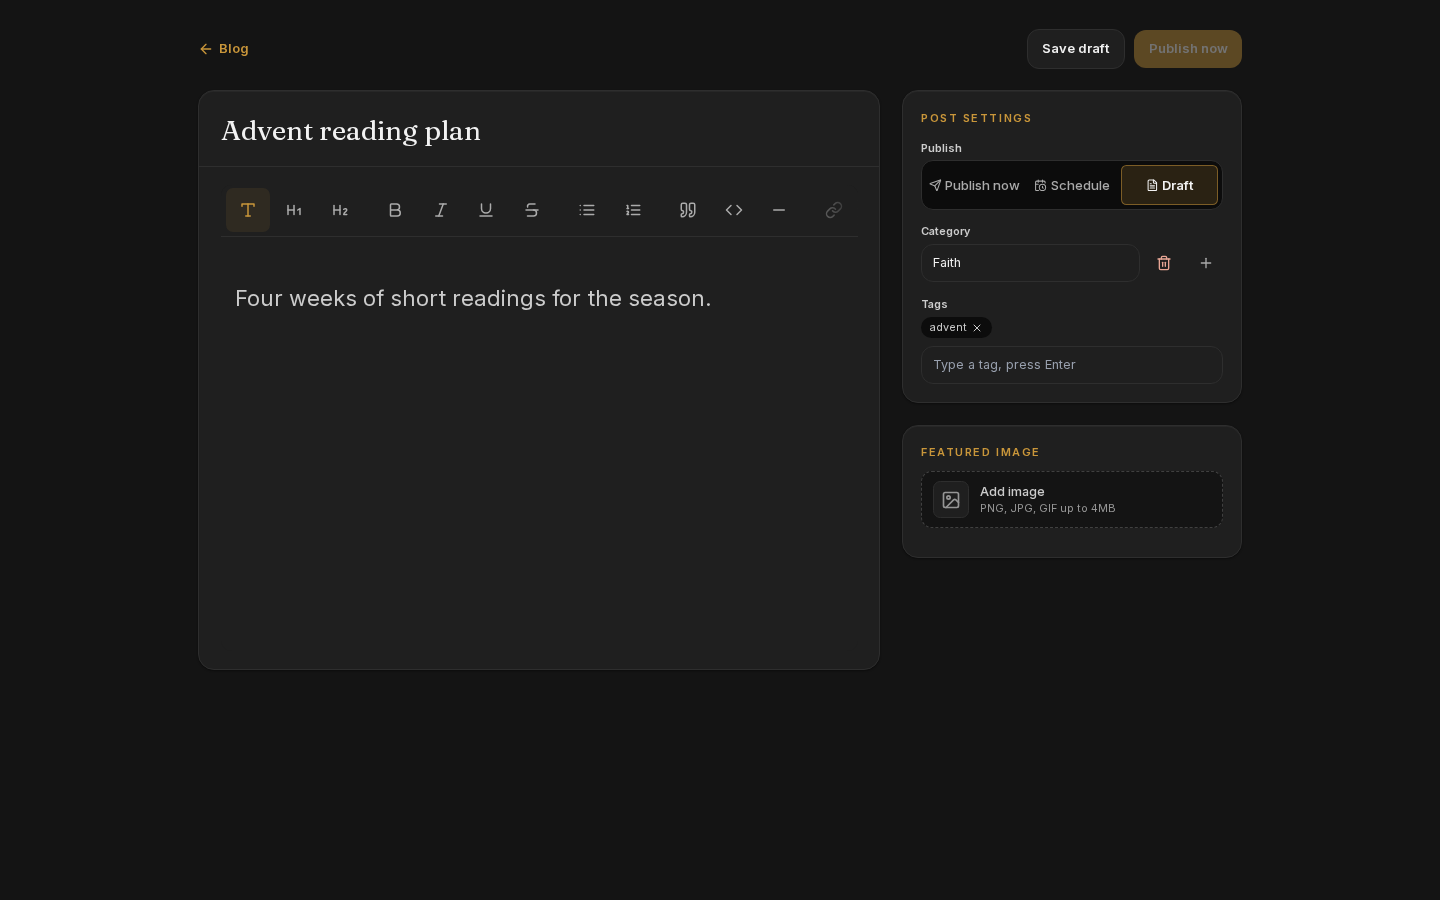
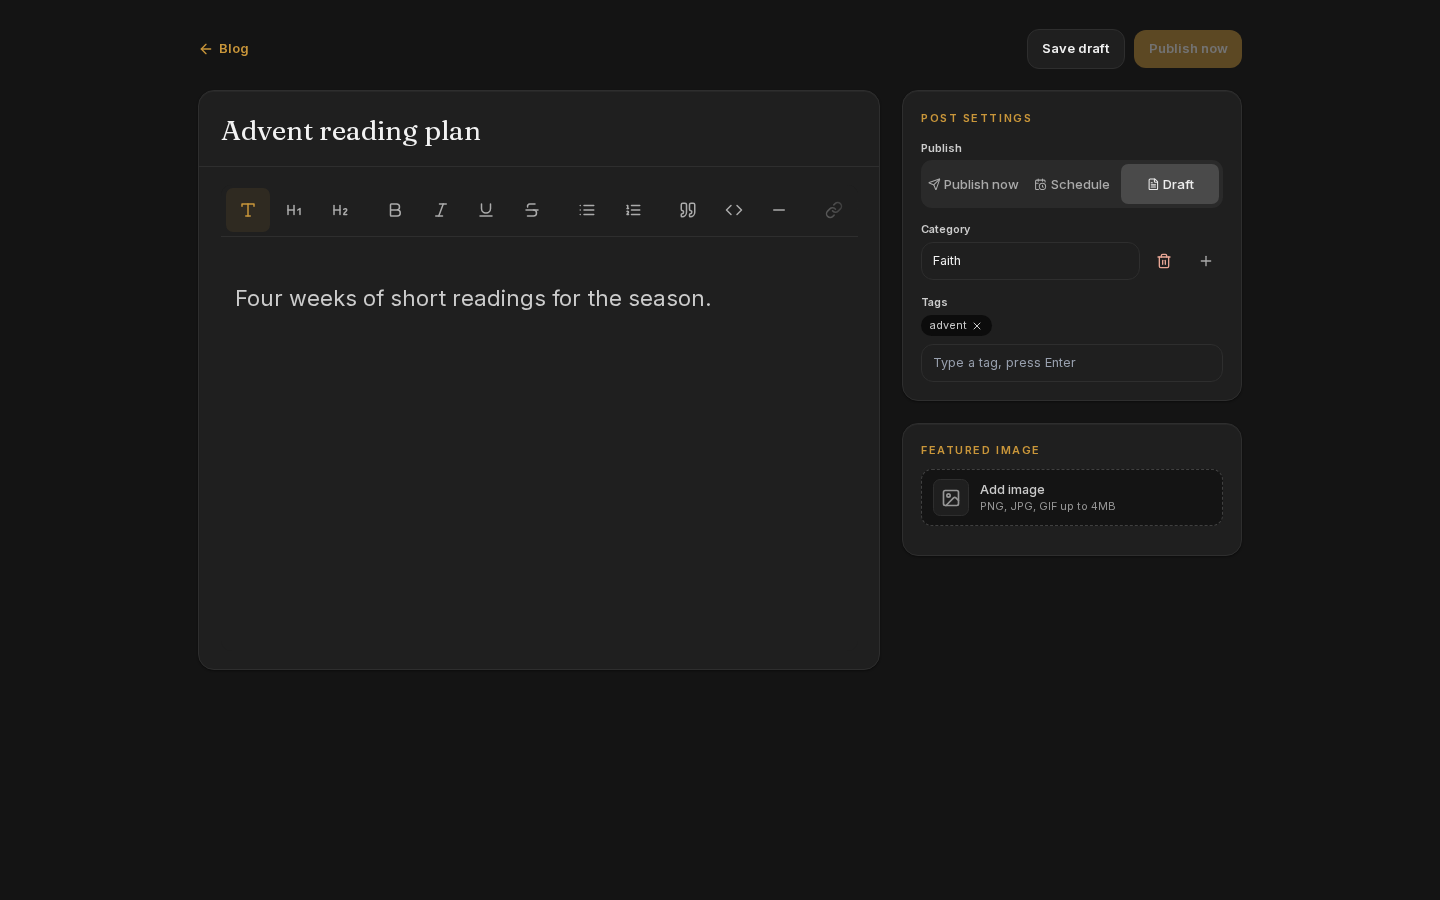
style(blog): Eden high-fidelity pass on the status picker and schedule field
Claude Code pass against the Eden 2026-10-17 refs (light/dark 01-publish, 03-compose) and the composer measurements spec: borderless tinted track, 12px radius, raised neutral active pill, 13px medium labels, #fdfdfd/#e9e9e9 schedule input. shadcn ToggleGroup + Input only; below lg unchanged; no logic changes. Screenshots refreshed.

Changed region(s): [[0.625, 0.1556, 0.875, 0.28], [0.625, 0.4978, 0.7812, 0.5911]]

diff --git a/src/components/blog/BlogScheduleFields.tsx b/src/components/blog/BlogScheduleFields.tsx
@@ -10,27 +10,29 @@ export type BlogEditorIntent = 'published' | 'scheduled' | 'draft';
 /**
  * Publish control for a blog post.
  * Below `lg` it stays the stacked rail. From `lg` the same ToggleGroup is a
- * horizontal segmented pill. Orientation stays vertical because the prop
- * cannot change with the viewport; the row is a flex direction only.
+ * horizontal segmented control in the Eden manner: a tinted borderless track
+ * (black 4.5% light, #2a2a2a dark), 12px radius, 4px padding, and a raised
+ * neutral active segment (#fdfdfd light, #4a4a4a dark; no pure white, no gold
+ * edge). Orientation stays vertical because the prop cannot change with the
+ * viewport; the row is a flex direction only.
  *
  * Base UI Toggle sets `aria-pressed` and, when on, `data-pressed`. It does
  * not set `data-state=on` (that selector is the Radix one on the primitive).
- * The raised shadow is `shadow-xs`, the subtle elevation token in app code.
- * The active fill is `bg-surface-gold`, not raised: raised is pure white in
- * light. The edge is `--border-gold` (there is no utility for that token;
- * `border-gold` is the solid brand colour). In dark the fill is a 16% accent
- * mix and the 52% gold edge is what separates it from the sunken track.
- * Inactive segments carry a transparent border so the 1px edge does not
- * change their height.
+ * Inactive segments carry a transparent border so a pressed edge cannot change
+ * their height.
  */
 const intentItem = [
   'h-auto w-full min-h-11 justify-start px-3',
-  'lg:w-auto lg:min-w-0! lg:flex-1 lg:shrink! lg:justify-center lg:gap-1 lg:px-1! lg:text-[13px] lg:whitespace-nowrap lg:rounded-md!',
+  'lg:w-auto lg:min-w-0! lg:flex-1 lg:shrink! lg:justify-center lg:gap-1 lg:px-1! lg:text-[13px] lg:font-medium lg:whitespace-nowrap lg:rounded-lg!',
   'lg:border lg:border-transparent! lg:bg-transparent! lg:text-muted! lg:hover:bg-transparent! lg:hover:text-body!',
-  'lg:aria-pressed:border-[color:var(--border-gold)]! lg:aria-pressed:bg-surface-gold! lg:aria-pressed:text-strong! lg:aria-pressed:font-semibold! lg:aria-pressed:shadow-xs!',
-  'lg:aria-pressed:hover:border-[color:var(--border-gold)]! lg:aria-pressed:hover:bg-surface-gold! lg:aria-pressed:hover:text-strong!',
-  'lg:data-[pressed]:border-[color:var(--border-gold)]! lg:data-[pressed]:bg-surface-gold! lg:data-[pressed]:text-strong! lg:data-[pressed]:font-semibold! lg:data-[pressed]:shadow-xs!',
-  'lg:data-[pressed]:hover:border-[color:var(--border-gold)]! lg:data-[pressed]:hover:bg-surface-gold! lg:data-[pressed]:hover:text-strong!',
+  'lg:aria-pressed:bg-[#fdfdfd]! lg:aria-pressed:text-strong! lg:aria-pressed:shadow-[0_1px_2px_rgba(0,0,0,0.08)]!',
+  'lg:aria-pressed:hover:bg-[#fdfdfd]! lg:aria-pressed:hover:text-strong!',
+  'lg:data-[pressed]:bg-[#fdfdfd]! lg:data-[pressed]:text-strong! lg:data-[pressed]:shadow-[0_1px_2px_rgba(0,0,0,0.08)]!',
+  'lg:data-[pressed]:hover:bg-[#fdfdfd]! lg:data-[pressed]:hover:text-strong!',
+  'dark:lg:aria-pressed:bg-[#4a4a4a]! dark:lg:aria-pressed:text-[#ededed]! dark:lg:aria-pressed:shadow-none!',
+  'dark:lg:aria-pressed:hover:bg-[#4a4a4a]! dark:lg:aria-pressed:hover:text-[#ededed]!',
+  'dark:lg:data-[pressed]:bg-[#4a4a4a]! dark:lg:data-[pressed]:text-[#ededed]! dark:lg:data-[pressed]:shadow-none!',
+  'dark:lg:data-[pressed]:hover:bg-[#4a4a4a]! dark:lg:data-[pressed]:hover:text-[#ededed]!',
 ].join(' ');
 
 export function BlogScheduleFields({
@@ -67,7 +69,7 @@ export function BlogScheduleFields({
           spacing={0}
           orientation="vertical"
           aria-label="Publish"
-          className="mt-1.5 w-full flex-col items-stretch lg:flex-row lg:rounded-brand lg:border lg:border-line lg:bg-surface-sunken lg:p-1"
+          className="mt-1.5 w-full flex-col items-stretch lg:flex-row lg:rounded-xl lg:bg-black/[0.045] lg:p-1 dark:lg:bg-[#2a2a2a]"
         >
           <ToggleGroupItem value="published" className={intentItem} aria-label="Publish now">
             <Send aria-hidden className="hidden size-3.5 lg:inline" />
@@ -101,7 +103,7 @@ export function BlogScheduleFields({
               if (next !== event.target.value) event.target.value = next;
               if (next !== wallClock) onWallClock(next);
             }}
-            className={`${fieldInput} h-auto dark:bg-surface-raised!`}
+            className={`${fieldInput} h-auto dark:bg-surface-raised! lg:rounded-xl lg:border-[#e9e9e9] lg:bg-[#fdfdfd] dark:lg:border-line dark:lg:bg-[#262626]!`}
           />
           {scheduleError ? (
             <p className="mt-1.5 text-sm text-danger" role="alert">{scheduleError}</p>

diff --git a/src/components/__tests__/blog-editor-schedule.test.tsx b/src/components/__tests__/blog-editor-schedule.test.tsx
@@ -447,9 +447,9 @@ describe('a non-JSON save response', () => {
     const group = host.querySelector('[aria-label="Publish"]');
     expect(group?.className).toContain('flex-col');
     expect(group?.className).toContain('lg:flex-row');
-    expect(group?.className).toContain('lg:bg-surface-sunken');
+    expect(group?.className).toContain('lg:bg-black/[0.045]');
     const choice = host.querySelector('button[aria-label="Publish now"]');
-    expect(choice?.className).toContain('data-[pressed]:bg-surface-gold');
+    expect(choice?.className).toContain('data-[pressed]:bg-[#fdfdfd]');
     expect(choice?.className).toContain('lg:whitespace-nowrap');
     expect(choice?.className).not.toContain('whitespace-normal');
     expect(choice?.className).toContain('min-h-11');
